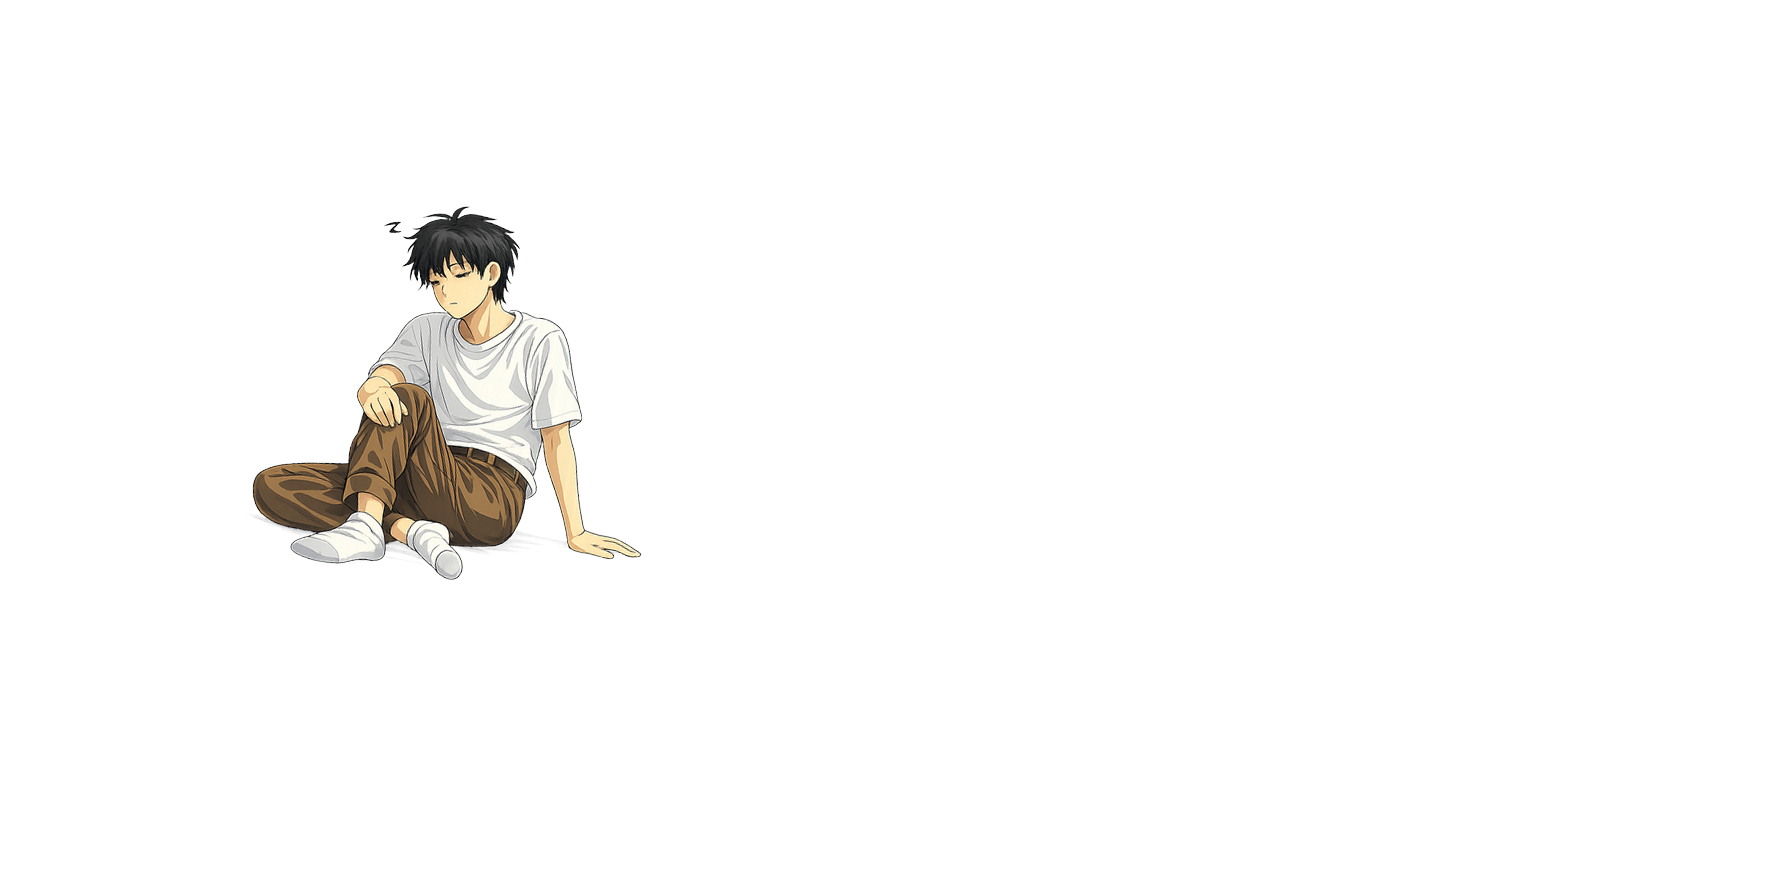
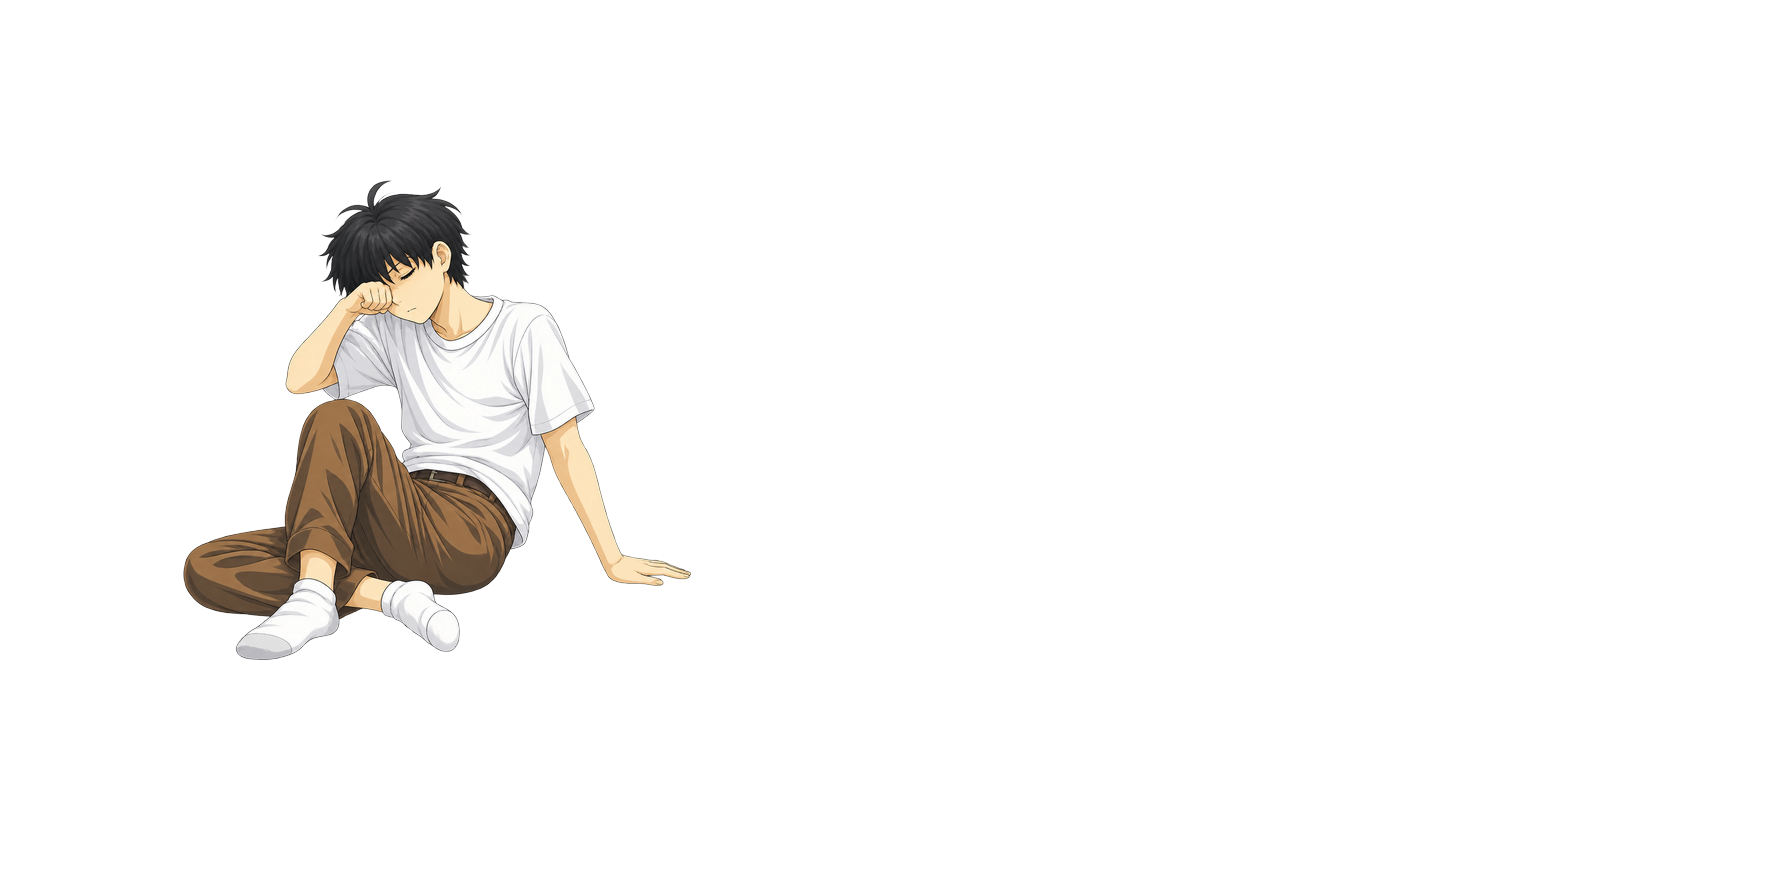
Update animatic pipeline with hybrid dynamic cropping and scaling

Changed region(s): [[0.093, 0.2131, 0.403, 0.761]]

diff --git a/index.html b/index.html
@@ -171,6 +171,50 @@
         });
 
         // ----------------------------------------------------
+        // Bedroom Stop-Motion Animation Logic (Scene 1)
+        // ----------------------------------------------------
+        const bedroomFrames = [];
+        const totalBedroomFrames = 18; // frame0 to frame17
+        for (let i = 0; i < totalBedroomFrames; i++) {
+            const img = new Image();
+            img.src = `assets/scene1/frame${i}.png`;
+            bedroomFrames.push(img);
+        }
+
+        let bedroomAnimationInterval;
+        let currentBedroomFrame = 0;
+        const bedroomAnimator = document.getElementById('bedroom-animator');
+        
+        function startBedroomAnimation() {
+            clearInterval(bedroomAnimationInterval);
+            currentBedroomFrame = 0;
+            bedroomAnimator.src = bedroomFrames[currentBedroomFrame].src + "?v=4";
+            
+            // Loop at 1000ms (1 fps) as requested
+            bedroomAnimationInterval = setInterval(() => {
+                currentBedroomFrame++;
+                if (currentBedroomFrame >= totalBedroomFrames) {
+                    currentBedroomFrame = 0; // loop back to start
+                }
+                bedroomAnimator.src = bedroomFrames[currentBedroomFrame].src + "?v=4";
+            }, 1000);
+        }
+        
+        function stopBedroomAnimation() {
+            clearInterval(bedroomAnimationInterval);
+        }
+
+        // Bedroom Scene Skip Button Logic
+        document.getElementById('bedroom-back-btn').addEventListener('click', () => {
+            document.body.classList.remove('bedroom-active');
+            stopBedroomAnimation();
+        });
+
+        // Start Bedroom Scene by default when page loads!
+        document.body.classList.add('bedroom-active');
+        startBedroomAnimation();
+
+        // ----------------------------------------------------
         // Bike Stop-Motion Animation Logic (Scene 2)
         // ----------------------------------------------------
         const bikeFrames = [];

diff --git a/studio/preview.html b/studio/preview.html
@@ -28,7 +28,7 @@
     </div>
 
     <script>
-        const frames = ['aligned_frames/frame0.png', 'aligned_frames/frame1.png', 'aligned_frames/frame2.png', 'aligned_frames/frame3.png', 'aligned_frames/frame4.png', 'aligned_frames/frame5.png', 'aligned_frames/frame6.png', 'aligned_frames/frame7.png', 'aligned_frames/frame8.png', 'aligned_frames/frame9.png', 'aligned_frames/frame10.png', 'aligned_frames/frame11.png', 'aligned_frames/frame12.png'];
+        const frames = ['aligned_frames/frame0.png', 'aligned_frames/frame1.png', 'aligned_frames/frame2.png', 'aligned_frames/frame3.png', 'aligned_frames/frame4.png', 'aligned_frames/frame5.png', 'aligned_frames/frame6.png', 'aligned_frames/frame7.png', 'aligned_frames/frame8.png', 'aligned_frames/frame9.png', 'aligned_frames/frame10.png', 'aligned_frames/frame11.png', 'aligned_frames/frame12.png', 'aligned_frames/frame13.png', 'aligned_frames/frame14.png', 'aligned_frames/frame15.png', 'aligned_frames/frame16.png', 'aligned_frames/frame17.png'];
         const container = document.getElementById('frames-container');
         
         frames.forEach((src, index) => {

diff --git a/studio/build_animatic.py b/studio/build_animatic.py
@@ -1,22 +1,36 @@
 import os
 import glob
 import re
+import numpy as np
 from PIL import Image
 
 # --- STUDIO CONFIGURATION ---
 TARGET_W, TARGET_H = 1774, 887
 
-# Default fallbacks (used if a frame is not in FRAME_CONFIGS)
-OFFSET_X = -450
-OFFSET_Y = -40
-ROTATION_ANGLE = -10  # Negative numbers rotate clockwise
-SCALE_FACTOR = 0.5
+# Dynamic Alignment Settings
+DEFAULT_ANCHOR_X = 437
+DEFAULT_ANCHOR_Y = 660
+DEFAULT_TARGET_HEIGHT = 480  # Slightly smaller to match frame 12 proportions 
 
-# Per-frame precise alignments
 FRAME_CONFIGS = {
-    "frame0.png": {"offset_x": -420, "offset_y": 10, "rotation": -50, "scale": 0.5},
-    "frame1.png": {"offset_x": -420, "offset_y": 10, "rotation": -50, "scale": 0.5},
-    "frame2.png": {"offset_x": -450, "offset_y": -40, "rotation": -10, "scale": 0.5}
+    # --- NON-DYNAMIC: Tumbling sequence (falling into bed) ---
+    # We disable dynamic cropping here so it uses your EXACT original manual offsets!
+    "frame0.png": {"dynamic": False, "offset_x": -420, "offset_y": 10, "rotation": -50, "scale": 0.5},
+    "frame1.png": {"dynamic": False, "offset_x": -420, "offset_y": 10, "rotation": -50, "scale": 0.5},
+    "frame2.png": {"dynamic": False, "offset_x": -450, "offset_y": -40, "rotation": -10, "scale": 0.5},
+    
+    # --- DYNAMIC: Sitting frames ---
+    # Frame 13 was generated too big by ChatGPT, we scale it down custom here:
+    "frame13.png": {"dynamic": True, "target_height": 450},
+    
+    # --- DYNAMIC: Stand-up sequence ---
+    # Since he is standing, his bounding box includes his legs!
+    # If we scaled him to 480px, he'd be a tiny dwarf. We increase target_height to 700px
+    # so his torso size matches the sitting frames.
+    'frame14.png': {'dynamic': True, 'shift_x': 270, 'shift_y': 50, 'target_height': 700},
+    'frame15.png': {'dynamic': True, 'shift_x': 270, 'shift_y': 50, 'target_height': 700},
+    'frame16.png': {'dynamic': True, 'shift_x': 270, 'shift_y': 50, 'target_height': 700},
+    'frame17.png': {'dynamic': True, 'shift_x': 270, 'shift_y': 50, 'target_height': 700}, 
 }
 
 input_dir = 'raw_frames'
@@ -33,41 +47,88 @@ files = sorted(glob.glob(os.path.join(input_dir, '*.png')), key=extract_number)
 if not files:
     print(f"No PNG frames found in {input_dir}/. Generating Empty Room Preview...")
 else:
-    print(f"Found {len(files)} raw frames. Building Animatic without dynamic cropping...")
+    print(f"Found {len(files)} raw frames. Building Animatic with HYBRID PIPELINE...")
+
+def get_content_bbox(img_rgba):
+    """Finds the bounding box of the non-transparent character."""
+    data = np.array(img_rgba)
+    alpha = data[:, :, 3]
+    rgb = data[:, :, :3]
+    
+    is_not_transparent = alpha > 10
+    is_not_white = (rgb[:, :, 0] < 240) | (rgb[:, :, 1] < 240) | (rgb[:, :, 2] < 240)
+    mask = is_not_transparent & is_not_white
+    
+    y_coords, x_coords = np.where(mask)
+    if len(x_coords) > 0:
+        return (np.min(x_coords), np.min(y_coords), np.max(x_coords), np.max(y_coords))
+    return None
 
 for file in files:
     filename = os.path.basename(file)
     
-    # Get config for this frame
+    # Load configs
     config = FRAME_CONFIGS.get(filename, {})
-    frame_scale = config.get("scale", SCALE_FACTOR)
-    frame_rot = config.get("rotation", ROTATION_ANGLE)
-    frame_ox = config.get("offset_x", OFFSET_X)
-    frame_oy = config.get("offset_y", OFFSET_Y)
+    is_dynamic = config.get("dynamic", True) # Default to dynamic
     
     img = Image.open(file).convert('RGBA')
-    
-    # 1. Resize and Rotate Image
-    new_w = int(img.width * frame_scale)
-    new_h = int(img.height * frame_scale)
-    
-    resized_img = img.resize((new_w, new_h), Image.Resampling.LANCZOS)
-    
-    # Apply rotation
-    if frame_rot != 0:
-        resized_img = resized_img.rotate(frame_rot, expand=True, resample=Image.Resampling.BICUBIC)
-        new_w, new_h = resized_img.size
-        
-    # 2. Paste into Golden Canvas (Dead Center + Offsets)
     canvas = Image.new('RGBA', (TARGET_W, TARGET_H), (0, 0, 0, 0))
-    paste_x = (TARGET_W - new_w) // 2 + frame_ox
-    paste_y = (TARGET_H - new_h) // 2 + frame_oy
     
-    canvas.paste(resized_img, (paste_x, paste_y), resized_img)
-    canvas.save(os.path.join(output_dir, filename))
-    print(f"Processed {filename}: Preserved original canvas alignment.")
+    if not is_dynamic:
+        # --- OLD LEGACY MODE (For Tumbling Frames) ---
+        frame_scale = config.get("scale", 0.5)
+        frame_rot = config.get("rotation", 0)
+        frame_ox = config.get("offset_x", -450)
+        frame_oy = config.get("offset_y", -40)
+        
+        new_w = int(img.width * frame_scale)
+        new_h = int(img.height * frame_scale)
+        resized_img = img.resize((new_w, new_h), Image.Resampling.LANCZOS)
+        
+        if frame_rot != 0:
+            resized_img = resized_img.rotate(frame_rot, expand=True, resample=Image.Resampling.BICUBIC)
+            new_w, new_h = resized_img.size
+            
+        paste_x = (TARGET_W - new_w) // 2 + frame_ox
+        paste_y = (TARGET_H - new_h) // 2 + frame_oy
+        canvas.paste(resized_img, (paste_x, paste_y), resized_img)
+        canvas.save(os.path.join(output_dir, filename))
+        print(f"Processed {filename}: [LEGACY] Placed with offset ({frame_ox}, {frame_oy})")
+        
+    else:
+        # --- NEW DYNAMIC MODE (For Sitting and Standing Frames) ---
+        shift_x = config.get("shift_x", 0)
+        shift_y = config.get("shift_y", 0)
+        frame_rot = config.get("rotation", 0)
+        target_height = config.get("target_height", DEFAULT_TARGET_HEIGHT)
+        
+        anchor_x = DEFAULT_ANCHOR_X + shift_x
+        anchor_y = DEFAULT_ANCHOR_Y + shift_y
+        
+        bbox = get_content_bbox(img)
+        if bbox:
+            left, top, right, bottom = bbox
+            img = img.crop((left, top, right, bottom))
+        
+        current_height = img.height
+        scale_factor = target_height / current_height if current_height > 0 else 1.0
+        new_w = int(img.width * scale_factor)
+        new_h = int(img.height * scale_factor)
+        
+        resized_img = img.resize((new_w, new_h), Image.Resampling.LANCZOS)
+        
+        if frame_rot != 0:
+            resized_img = resized_img.rotate(frame_rot, expand=True, resample=Image.Resampling.BICUBIC)
+            new_w, new_h = resized_img.size
+            
+        paste_x = int(anchor_x - (new_w / 2))
+        paste_y = int(anchor_y - new_h)
+        
+        canvas.paste(resized_img, (paste_x, paste_y), resized_img)
+        canvas.save(os.path.join(output_dir, filename))
+        print(f"Processed {filename}: [DYNAMIC] Normalized height to {target_height}px, Pinned to ({anchor_x}, {anchor_y})")
 
-# Generate the Instant Web Previewer
+# Generate Web Previewer
 html_content = f"""
 <!DOCTYPE html>
 <html>
@@ -137,4 +198,4 @@ html_content = f"""
 with open('preview.html', 'w') as f:
     f.write(html_content)
 
-print(f"\\nSUCCESS! {len(files)} frames aligned.")
+print(f"\\nSUCCESS! {len(files)} frames aligned with HYBRID PIPELINE.")

diff --git a/studio/find_feet.py b/studio/find_feet.py
@@ -1,0 +1,27 @@
+import os
+import numpy as np
+from PIL import Image
+
+frames = [f'frame{i}.png' for i in range(12, 18)]
+input_dir = 'raw_frames'
+
+for f in frames:
+    path = os.path.join(input_dir, f)
+    if os.path.exists(path):
+        img = Image.open(path).convert("RGBA")
+        data = np.array(img)
+        alpha = data[:, :, 3]
+        rgb = data[:, :, :3]
+        
+        is_not_transparent = alpha > 10
+        is_not_white = (rgb[:, :, 0] < 240) | (rgb[:, :, 1] < 240) | (rgb[:, :, 2] < 240)
+        mask = is_not_transparent & is_not_white
+        y_coords, x_coords = np.where(mask)
+        
+        if len(x_coords) > 0:
+            cx = int(np.mean(x_coords))
+            cy = int(np.mean(y_coords))
+            bottom_y = np.max(y_coords)
+            left_x = np.min(x_coords)
+            right_x = np.max(x_coords)
+            print(f"{f}: CoM=({cx}, {cy}), bottom_y={bottom_y}, left_x={left_x}, right_x={right_x}")

diff --git a/test_comp.py b/test_comp.py
@@ -1,0 +1,32 @@
+from PIL import Image
+import os
+
+bg_path = 'assets/scene_bedroom/bedroom_bg_cropped.jpg'
+bg = Image.open(bg_path).convert("RGBA")
+
+frames = [17, 18, 19, 20, 21, 22, 23]
+offsets = {
+    17: (-360, 50),
+    18: (-450, 150),
+    19: (-450, 150),
+    20: (-450, 150),
+    21: (-450, 150),
+    22: (-450, 150),
+    23: (-450, 150)
+}
+
+grid_w = bg.width * len(frames)
+grid_h = bg.height
+out_img = Image.new('RGBA', (grid_w, grid_h))
+
+for i, f in enumerate(frames):
+    img = bg.copy()
+    fg_path = f'studio/raw_frames/frame{f}.png'
+    if os.path.exists(fg_path):
+        fg = Image.open(fg_path).convert("RGBA")
+        off_x, off_y = offsets[f]
+        img.paste(fg, (off_x, off_y), fg)
+    out_img.paste(img, (i * bg.width, 0))
+
+out_img.save('scratch/comp_17_23.png')
+print("Saved scratch/comp_17_23.png")

diff --git a/bike_comp.py b/bike_comp.py
@@ -1,0 +1,17 @@
+from PIL import Image
+import os
+
+frames = [f'assets/scene2/frame{i}.png' for i in range(1, 9)]
+images = [Image.open(f).convert("RGBA") for f in frames if os.path.exists(f)]
+
+if images:
+    w, h = images[0].size
+    grid_w = w * len(images)
+    grid_h = h
+    out_img = Image.new('RGBA', (grid_w, grid_h))
+    
+    for i, img in enumerate(images):
+        out_img.paste(img, (i * w, 0))
+    
+    out_img.save('scratch/bike_comp.png')
+    print("Saved scratch/bike_comp.png")
